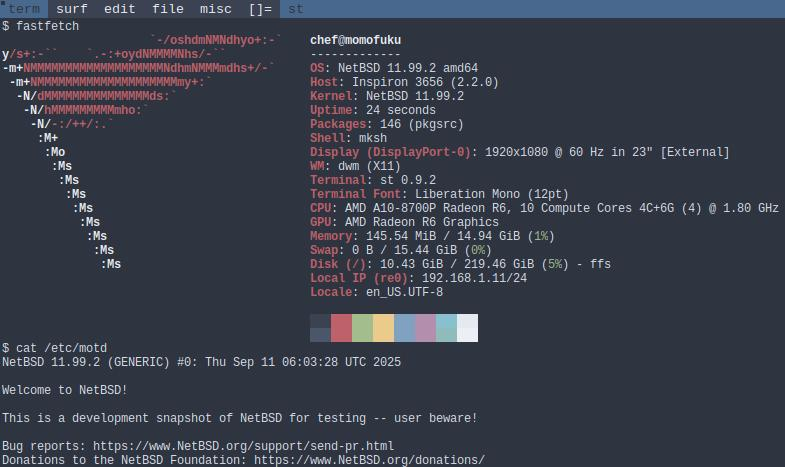
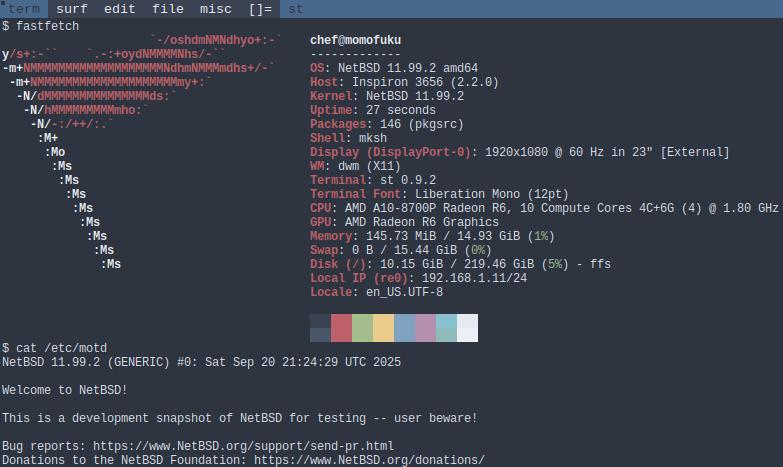
adds and tweaks

diff --git a/README.md b/README.md
@@ -1,4 +1,4 @@
-NetBSD 11.99.2 (GENERIC) #0: Thu Sep 11 06:03:28 UTC 2025
+NetBSD 11.99.2 (GENERIC)
 
 
 
